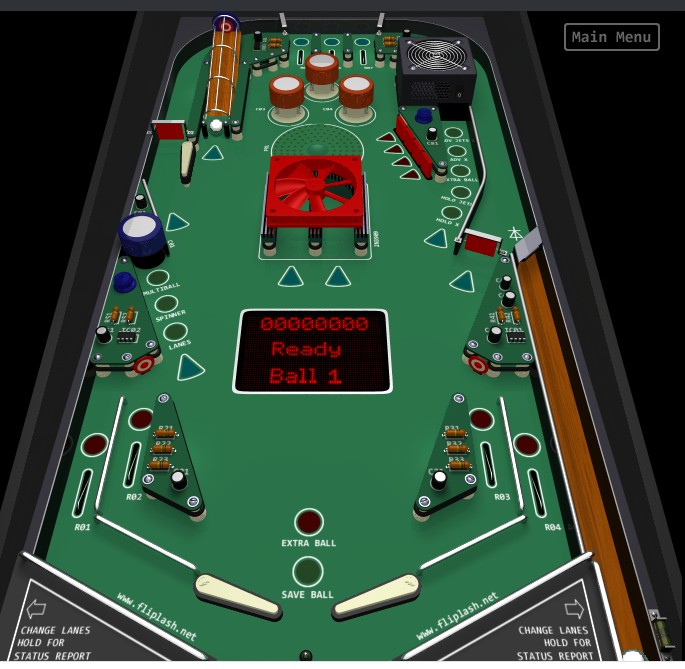
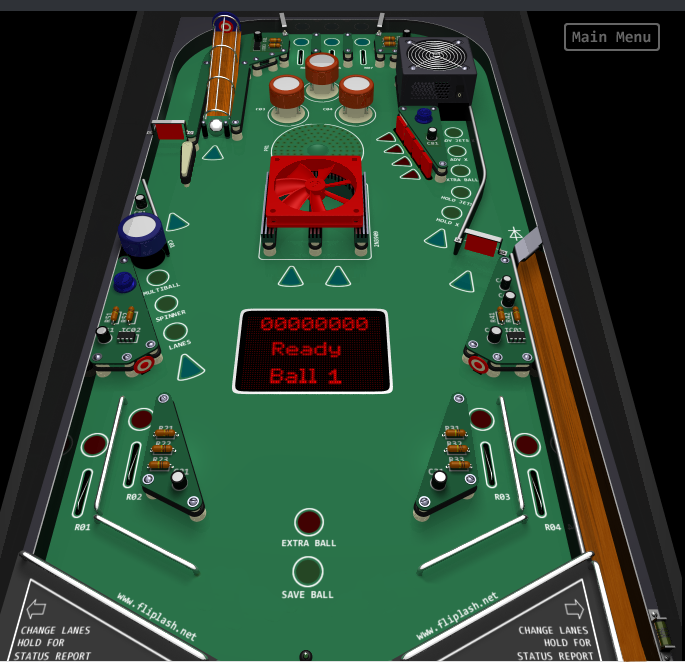
right/left lever mechanism & textures implemented

Changed region(s): [[0.4599, 0.8371, 0.6131, 0.9268], [0.2759, 0.8371, 0.4292, 0.9268], [0.8891, 0.9268, 0.9504, 1.0]]

diff --git a/ModulePlayer.cpp b/ModulePlayer.cpp
@@ -5,11 +5,13 @@
 #include "ModuleInput.h"
 #include "ModuleRender.h"
 #include "ModuleSceneIntro.h"
+#include "ModuleTextures.h"
 #include "p2Point.h"
 #include "math.h"
 
 ModulePlayer::ModulePlayer(Application* app, bool start_enabled) : Module(app, start_enabled)
 {
+	lever_left_Tex = lever_right_Tex = NULL;
 }
 
 ModulePlayer::~ModulePlayer()
@@ -20,13 +22,18 @@ ModulePlayer::~ModulePlayer()
 bool ModulePlayer::Start()
 {
 	LOG("Loading player");
-	pivot_left = App->physics->CreateCircle(210, 580, 10, false);
-	lever_left = App->physics->CreateRectangle(210, 580, 70, 10, true);
-	pivot_force_left = App->physics->CreateCircle(280, 580, 5, true);
 
-	pivot_Right = App->physics->CreateCircle(410, 580, 10, false);
-	lever_Right = App->physics->CreateRectangle(410, 580, 70, 10, true);
-	pivot_force_Right = App->physics->CreateCircle(340, 580, 5, true);
+	lever_left_Tex = App->textures->Load("pinball/LeftLever.png");
+
+	pivot_left = App->physics->CreateCircle(205, 586, 10, false);
+	lever_left = App->physics->CreateRectangle(210, 586, 70, 10, true);
+	pivot_force_left = App->physics->CreateCircle(280, 586, 5, true);
+
+	lever_right_Tex = App->textures->Load("pinball/RightLever.png");
+
+	pivot_Right = App->physics->CreateCircle(410, 586, 10, false);
+	lever_Right = App->physics->CreateRectangle(410, 586, 70, 10, true);
+	pivot_force_Right = App->physics->CreateCircle(340, 586, 5, true);
 
 	App->physics->CreateRevolutionJoint();
 
@@ -45,15 +52,30 @@ bool ModulePlayer::CleanUp()
 // Update: draw background
 update_status ModulePlayer::Update()
 {
-	if(App->input->GetKey(SDL_SCANCODE_A) == KEY_DOWN || App->input->GetKey(SDL_SCANCODE_RIGHT) == KEY_DOWN)
+	if(App->input->GetKey(SDL_SCANCODE_A) == KEY_REPEAT || App->input->GetKey(SDL_SCANCODE_RIGHT) == KEY_REPEAT)
 	{
-		pivot_force_Right->body->ApplyForceToCenter(b2Vec2(0.0f, -300.0f), true);
+		pivot_force_Right->body->ApplyForceToCenter(b2Vec2(0.0f, -200.0f), true);
+	}
+	else
+	{
+		pivot_force_Right->body->ApplyForceToCenter(b2Vec2(0.0f, 100.0f), true);
 	}
 
-	if (App->input->GetKey(SDL_SCANCODE_D) == KEY_DOWN || App->input->GetKey(SDL_SCANCODE_LEFT) == KEY_DOWN)
+	if (App->input->GetKey(SDL_SCANCODE_D) == KEY_REPEAT || App->input->GetKey(SDL_SCANCODE_LEFT) == KEY_REPEAT)
 	{
-		pivot_force_left->body->ApplyForceToCenter(b2Vec2(0.0f, -300.0f), true);
+		pivot_force_left->body->ApplyForceToCenter(b2Vec2(0.0f, -200.0f), true);
 	}
+	else
+	{
+		pivot_force_left->body->ApplyForceToCenter(b2Vec2(0.0f, 100.0f), true);
+	}
+
+	int x, y;
+	lever_left->GetPosition(x, y);
+	App->renderer->Blit(lever_left_Tex, x -10, y -5, NULL, 1.0f, lever_left->GetRotation());
+	int x_, y_;
+	lever_Right->GetPosition(x, y);
+	App->renderer->Blit(lever_right_Tex, x -10, y -5, NULL, 1.0f, lever_Right->GetRotation());
 
 	return UPDATE_CONTINUE;
 }

diff --git a/ModulePhysics.cpp b/ModulePhysics.cpp
@@ -186,15 +186,19 @@ void ModulePhysics::CreateRevolutionJoint()
 	revoluteJointDef_left.bodyA = App->player->lever_left->body;
 	revoluteJointDef_left.bodyB = App->player->pivot_left->body;
 	revoluteJointDef_left.collideConnected = false;
-	revoluteJointDef_left.localAnchorA.Set(-1, 0);//the top right corner of the box
+	revoluteJointDef_left.localAnchorA.Set(-0.6, 0);//the top right corner of the box
 	revoluteJointDef_left.localAnchorB.Set(0, 0);//center of the circle
+	revoluteJointDef_left.referenceAngle = 0;
+	revoluteJointDef_left.enableLimit = true;
+	revoluteJointDef_left.lowerAngle = -18 * DEGTORAD;
+	revoluteJointDef_left.upperAngle = 25 * DEGTORAD;
 	b2RevoluteJoint* rev_joint_left = (b2RevoluteJoint*)world->CreateJoint(&revoluteJointDef_left);
 
 	b2RevoluteJointDef revoluteJointDef_force_left;
 	revoluteJointDef_force_left.bodyA = App->player->lever_left->body;
 	revoluteJointDef_force_left.bodyB = App->player->pivot_force_left->body;
 	revoluteJointDef_force_left.collideConnected = false;
-	revoluteJointDef_force_left.localAnchorA.Set(0, 0);//the top right corner of the box
+	revoluteJointDef_force_left.localAnchorA.Set(0.7, 0);//the top right corner of the box
 	revoluteJointDef_force_left.localAnchorB.Set(0, 0);//center of the circle
 	b2RevoluteJoint* rev_joint_force_left = (b2RevoluteJoint*)world->CreateJoint(&revoluteJointDef_force_left);
 
@@ -202,18 +206,20 @@ void ModulePhysics::CreateRevolutionJoint()
 	revoluteJointDef_right.bodyA = App->player->lever_Right->body;
 	revoluteJointDef_right.bodyB = App->player->pivot_Right->body;
 	revoluteJointDef_right.collideConnected = false;
-	revoluteJointDef_right.localAnchorA.Set(1, 0);//the top right corner of the box
+	revoluteJointDef_right.localAnchorA.Set(0.6, 0);//the top right corner of the box
 	revoluteJointDef_right.localAnchorB.Set(0, 0);//center of the circle
+	revoluteJointDef_right.enableLimit = true;
+	revoluteJointDef_right.lowerAngle = -25 * DEGTORAD;
+	revoluteJointDef_right.upperAngle = 18 * DEGTORAD;
 	b2RevoluteJoint* rev_joint_right = (b2RevoluteJoint*)world->CreateJoint(&revoluteJointDef_right);
 
 	b2RevoluteJointDef revoluteJointDef_force_right;
 	revoluteJointDef_force_right.bodyA = App->player->lever_Right->body;
 	revoluteJointDef_force_right.bodyB = App->player->pivot_force_Right->body;
 	revoluteJointDef_force_right.collideConnected = false;
-	revoluteJointDef_force_right.localAnchorA.Set(0, 0);//the top right corner of the box
+	revoluteJointDef_force_right.localAnchorA.Set(-0.7, 0);//the top right corner of the box
 	revoluteJointDef_force_right.localAnchorB.Set(0, 0);//center of the circle
 	b2RevoluteJoint* rev_joint_force_right = (b2RevoluteJoint*)world->CreateJoint(&revoluteJointDef_force_right);
-
 }
 
 // 

diff --git a/ModuleSceneIntro.cpp b/ModuleSceneIntro.cpp
@@ -29,7 +29,6 @@ bool ModuleSceneIntro::Start()
 	box = App->textures->Load("pinball/crate.png");
 	rick = App->textures->Load("pinball/Map_Pinball.png");
 	bonus_fx = App->audio->LoadFx("pinball/bonus.wav");
-
 	//sensor = App->physics->CreateRectangleSensor(SCREEN_WIDTH / 2, SCREEN_HEIGHT, SCREEN_WIDTH, 50);
 	CreateMap();
 
@@ -111,7 +110,7 @@ update_status ModuleSceneIntro::Update()
 	{
 		int x, y;
 		c->data->GetPosition(x, y);
-		App->renderer->Blit(box, x, y, NULL, 1.0f, c->data->GetRotation());
+		App->renderer->Blit(box, x - 10, y - 5, NULL, 1.0f, c->data->GetRotation());
 		if(ray_on)
 		{
 			int hit = c->data->RayCast(ray.x, ray.y, mouse.x, mouse.y, normal.x, normal.y);

diff --git a/ModulePlayer.h b/ModulePlayer.h
@@ -1,10 +1,11 @@
 #pragma once
 #include "Module.h"
 #include "Globals.h"
+#include "p2List.h"
 #include "p2Point.h"
 #include "Box2D/Box2D/Box2D.h"
 
-
+struct SDL_Texture;
 
 class ModulePlayer : public Module
 {
@@ -22,9 +23,15 @@ public:
 	PhysBody* pivot_left;
 	PhysBody* lever_left;
 	PhysBody* pivot_force_left;
+	
 	//lever Right
 	PhysBody* pivot_Right;
 	PhysBody* lever_Right;
 	PhysBody* pivot_force_Right;
+
+	SDL_Texture* lever_left_Tex;
+	SDL_Texture* lever_right_Tex;
+
+
 
 };

diff --git a/ModuleSceneIntro.h b/ModuleSceneIntro.h
@@ -29,6 +29,7 @@ public:
 	SDL_Texture* circle;
 	SDL_Texture* box;
 	SDL_Texture* rick;
+
 	uint bonus_fx;
 	p2Point<int> ray;
 	bool ray_on;
